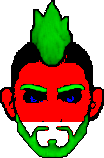
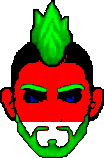
Elfo: 4 penteados; penteado apaga o rabo do boneco e raspado pinta o couro cabeludo

diff --git a/tools/arte/importar_novas.py b/tools/arte/importar_novas.py
@@ -479,6 +479,15 @@ def mascara_cores(im, cfg, frame=None):
     if ch:
         verde = a[..., 1] - np.maximum(a[..., 0], a[..., 2])
         cobre = np.clip(verde / np.maximum(a[..., 1], 1) * 1.25, 0, 1) * op
+        if 'couro' in cfg['cabelo']:               # couro cabeludo raspado: pele com um verde fraco por cima. O verde a
+            # mais do que a pele teria (G/R da pele) dividido pelo verde do cabelo da a cobertura
+            hh, ss, vv = hsv_arr(a)
+            pele = op & (cobre == 0) & (ss > 0.3) & (vv > 0.6) & (a[..., 0] > a[..., 1]) & (a[..., 1] > a[..., 2])
+            rho = np.median(a[pele][:, 1] / np.maximum(a[pele][:, 0], 1)) if pele.any() else 0.75
+            gref = np.median(a[cobre > 0.8][:, 1]) if (cobre > 0.8).any() else 180
+            b = (a[..., 1] - rho * a[..., 0]) / (1 - 0.15 * rho)
+            couro = np.clip(b / gref, 0, 1) * op * (yf <= cfg['cabelo']['couro'])
+            cobre = np.maximum(cobre, np.where(couro > 0.12, couro, 0))
         if 'y' in cfg['cabelo']: cobre *= inr(yf, cfg['cabelo']['y'])
         sem = a.copy(); sem[..., 1] = np.minimum(a[..., 1], np.maximum(a[..., 0], a[..., 2]))
         h, s, v = hsv_arr(sem)
@@ -757,7 +766,9 @@ def importar_raca(race, cfg, arquivos, altura=600):
         z = np.zeros((H, W, 4), np.uint8); z[..., 3] = 255
         heads['apagar']['barba'][key] = _camada(z, rosto[key], f'cabeca_{race}_apagar_barba__{key}.png')
         if key == race:                                     # penteado: apaga a cabeca do boneco acima do nariz
-            heads['apagar']['cabelo'] = _camada(z, op & (yy < nariz), f'cabeca_{race}_apagar_cabelo.png')
+            # e o cabelo do boneco que desce fora da barba (rabo de cavalo atras do pescoco)
+            rabo = _crescer(parts.get('cabelo', np.zeros((H, W), bool)) & (yy >= nariz) & ~banda, 2) & op
+            heads['apagar']['cabelo'] = _camada(z, op & ((yy < nariz) | rabo), f'cabeca_{race}_apagar_cabelo.png')
     # na peca, a barba conta como cabelo; em cima vale acima do boneco (coque e moicano mais altos que a cabeca)
     pc = dict(cfg); pc['cabelo'] = dict(cfg['cabelo'], y=[-0.5, cab['mechas_y'] if sm else cab['queixo'] + 0.02])
     for key, _ in arquivos:
@@ -778,6 +789,8 @@ def importar_raca(race, cfg, arquivos, altura=600):
                     ligado |= novo
                 m4[ligado] = (0, 255, 0, 255)                       # abaixo do nariz a peca e so cabelo (a sombra nao e pele)
                 alpha = (op & (yy < nariz + 2)) | ligado
+            elif cfg['cabelo'].get('chroma'):               # verde exato: o cabelo que desce entra todo (trancas), e onde o
+                alpha = (op & ((yy < nariz + 2) | rabo)) | (_crescer(pelo & ((yy < queixo) | ~banda), 1) & op)   # rabo do boneco estava
             else:
                 alpha = (op & (yy < nariz + 2)) | (_crescer(pelo, 1) & op & (yy < queixo))
             ent = _camada(a, alpha, f'cabeca_{race}_cabelo_{estilo}.png')
